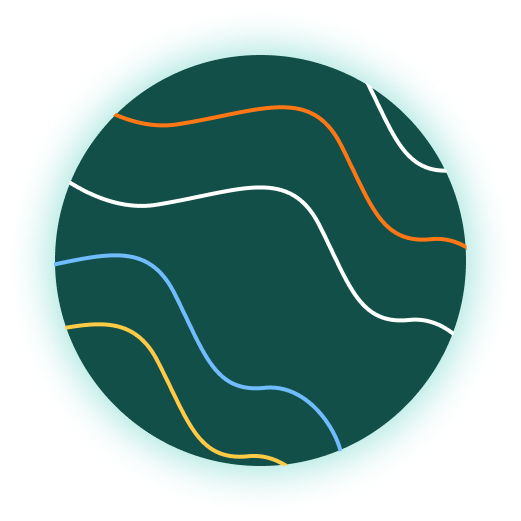
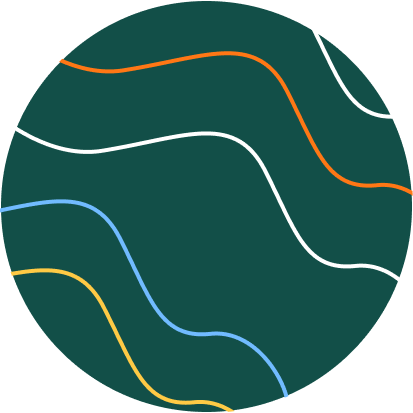
CSS header__img svg correction

diff --git a/build/css/main.css b/build/css/main.css
@@ -95,11 +95,13 @@ legend {
   --font-third: "Open Sans", sans-serif;
   --page-bg: #fff;
   --header-bg: #e9fbf9;
+  --bage-bg: #fff;
   --text-color: #464646;
   --section-title: #021d1a;
   --accent: #ff823b;
   --accent-second: #124f48;
   --accent-second-muted: rgba(18, 79, 72, 0.37);
+  --bage-text: #ff6107;
   --laptop-size: 1199px;
   --table-size: 959px;
   --mobile-size: 599px;
@@ -167,6 +169,20 @@ body {
 .btn--login:hover {
   cursor: pointer;
   opacity: 0.9;
+}
+
+.badge {
+  display: inline-block;
+  padding-left: 22px;
+  padding-right: 22px;
+  height: 38px;
+  line-height: 38px;
+  border-radius: 4px;
+  border: 1px solid #f2faf9;
+  background-color: var(--bage-bg);
+  font-size: 16px;
+  letter-spacing: 0.1em;
+  color: var(--bage-text);
 }
 
 .footer {
@@ -325,6 +341,28 @@ body {
   width: 29px;
 }
 
+.h1 {
+  font-weight: 800;
+  font-size: 64px;
+  line-height: 1.25;
+  color: var(--section-title);
+  font-family: var(--font-secondary);
+}
+
+.h2 {
+  font-weight: 700;
+  font-size: 44px;
+  line-height: 1.82;
+  color: var(--section-title);
+  font-family: var(--font-secondary);
+}
+
+.h3 {
+  font-weight: 700;
+  font-size: 24px;
+  color: var(--section-title);
+}
+
 /* Sections */
 .header-top {
   padding-top: 155px;
@@ -339,6 +377,7 @@ body {
 
 .header {
   padding-top: 43px;
+  padding-bottom: 106px;
   background-color: var(--header-bg);
 }
 
@@ -350,7 +389,7 @@ body {
 
 .header__text {
   padding-top: 19px;
-  max-width: 570px;
+  max-width: 600px;
 }
 
 .header__badge {
@@ -375,5 +414,7 @@ body {
 }
 .header__img img {
   display: block;
+  border-radius: 50%;
+  box-shadow: 0px 0px 24px 4px rgba(98, 208, 196, 0.56);
 }
[2 lines of base64/hex data omitted]

diff --git a/src/scss/sections/_header.scss b/src/scss/sections/_header.scss
@@ -1,5 +1,6 @@
 .header {
     padding-top: 43px;
+    padding-bottom: 106px;
     background-color: var(--header-bg);
 }
 
@@ -11,14 +12,14 @@
 
 .header__text {
     padding-top: 19px;
-    max-width: 570px;
+    max-width: 600px;
 }
 
 .header__badge {
     margin-bottom: 30px;
 }
 
-.badge {}
+
 
 .header__title {
     margin-bottom: 31px;
@@ -27,7 +28,7 @@
 .header__desc {
     margin-bottom: 51px;
 
-    p + p {
+    p+p {
         margin-top: 10px;
     }
 }
@@ -41,5 +42,7 @@
 
     img {
         display: block;
+        border-radius: 50%;
+        box-shadow: 0px 0px 24px 4px rgba(98, 208, 196, 0.56);
     }
 }

diff --git a/build/index.html b/build/index.html
@@ -41,15 +41,13 @@
 
                 <!-- badge -->
                 <div class="header__badge">
-                    <div class="badge">
-                        <p>it works!</p>
-                    </div>
+                    <span class="badge">it works!</span>
                 </div>
                 <!--// badge -->
 
                 <!-- title -->
                 <div class="header__title">
-                    <h1>Try Our Business Ideas to grow Rapidly</h1>
+                    <h1 class="h1">Try Our Business Ideas to grow Rapidly</h1>
                 </div>
                 <!--// title -->
 

diff --git a/src/html/blocks/header.html b/src/html/blocks/header.html
@@ -5,15 +5,13 @@
 
                 <!-- badge -->
                 <div class="header__badge">
-                    <div class="badge">
-                        <p>it works!</p>
-                    </div>
+                    <span class="badge">it works!</span>
                 </div>
                 <!--// badge -->
 
                 <!-- title -->
                 <div class="header__title">
-                    <h1>Try Our Business Ideas to grow Rapidly</h1>
+                    <h1 class="h1">Try Our Business Ideas to grow Rapidly</h1>
                 </div>
                 <!--// title -->
 

diff --git a/src/scss/blocks/typography.scss b/src/scss/blocks/typography.scss
@@ -1,0 +1,21 @@
+.h1 {
+    font-weight: 800;
+    font-size: 64px;
+    line-height: 1.25;
+    color: var(--section-title);
+    font-family: var(--font-secondary);
+}
+
+.h2 {
+    font-weight: 700;
+    font-size: 44px;
+    line-height: 1.82;
+    color: var(--section-title);
+    font-family: var(--font-secondary);
+}
+
+.h3 {
+    font-weight: 700;
+    font-size: 24px;
+    color: var(--section-title);
+}

diff --git a/src/scss/base/_vars.scss b/src/scss/base/_vars.scss
@@ -8,11 +8,14 @@
 
     --page-bg: #fff;
     --header-bg: #e9fbf9;
+    --bage-bg: #fff;
+
     --text-color: #464646;
     --section-title: #021d1a;
     --accent: #ff823b;
     --accent-second: #124f48;
     --accent-second-muted: rgba(18, 79, 72, 0.37);
+    --bage-text: #ff6107;
 
     --laptop-size: 1199px;
     --table-size: 959px;

diff --git a/src/scss/blocks/_components.scss b/src/scss/blocks/_components.scss
@@ -1,0 +1,14 @@
+.badge {
+    display: inline-block;
+    padding-left: 22px;
+    padding-right: 22px;
+    height: 38px;
+    line-height: 38px;
+    border-radius: 4px;
+    border: 1px solid #f2faf9;
+    background-color: var(--bage-bg);
+
+    font-size: 16px;
+    letter-spacing: 0.1em;
+    color: var(--bage-text);
+}

diff --git a/src/scss/blocks/_buttons.scss b/src/scss/blocks/_buttons.scss
@@ -16,6 +16,10 @@
     background-color: var(--accent);
 }
 
+.btn--outline {
+    
+}
+
 .btn--login {
     background-color: var(--accent-second);
     transition: opacity 0.2s ease-in;
